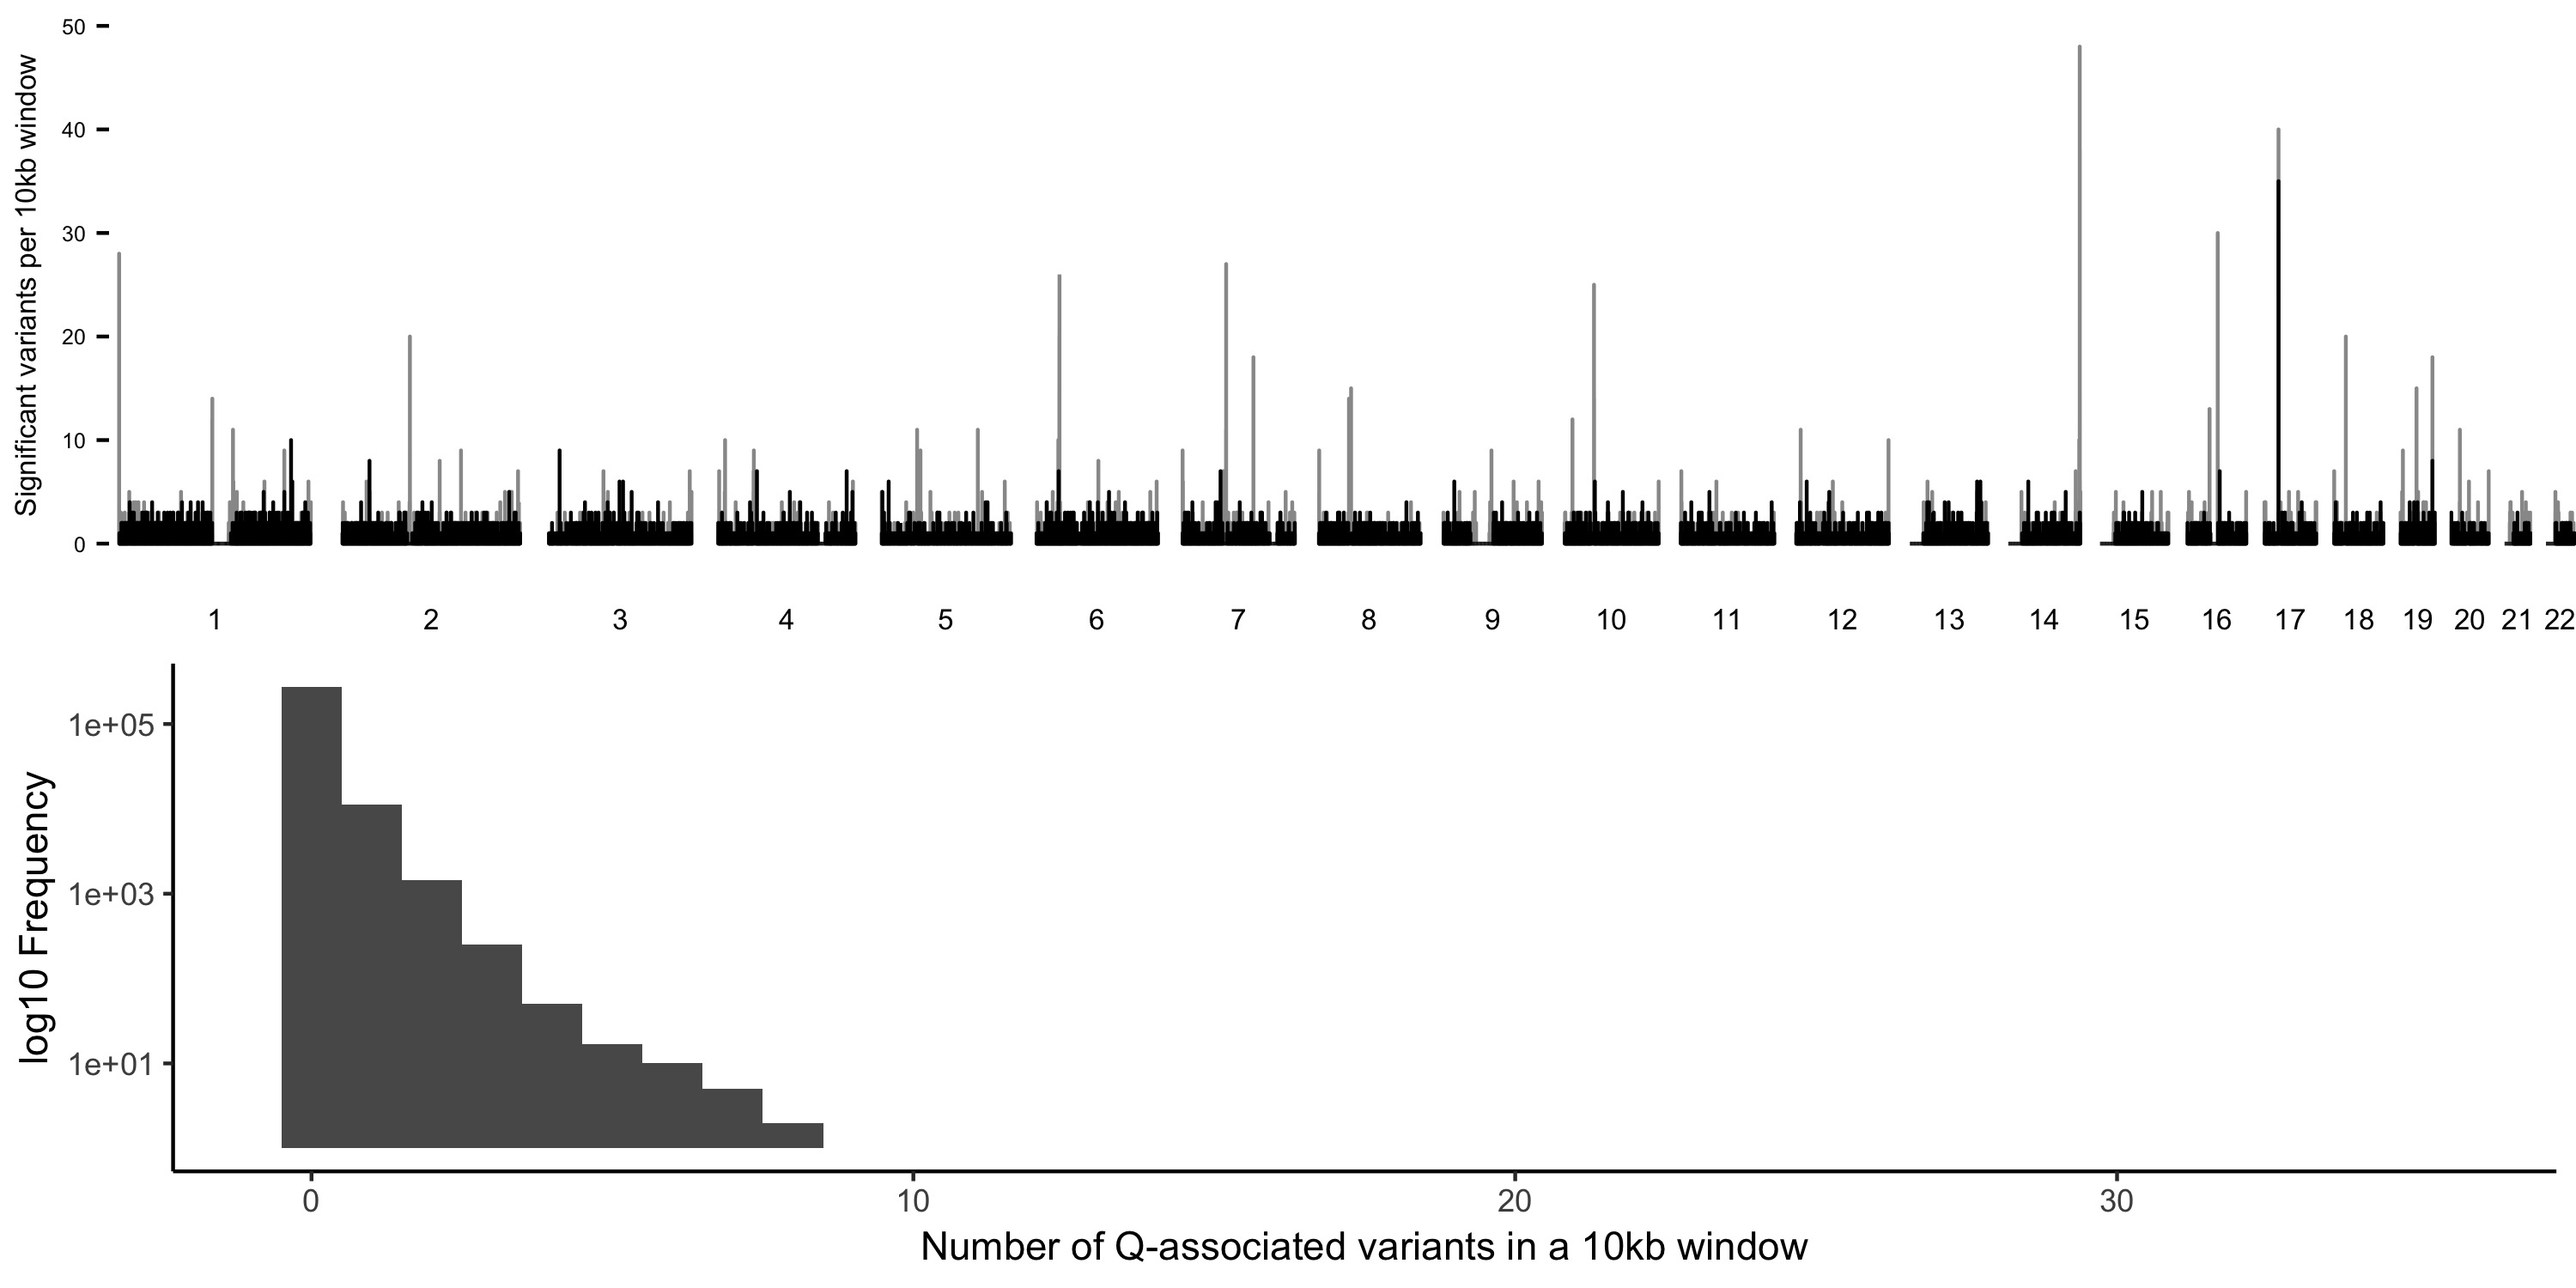
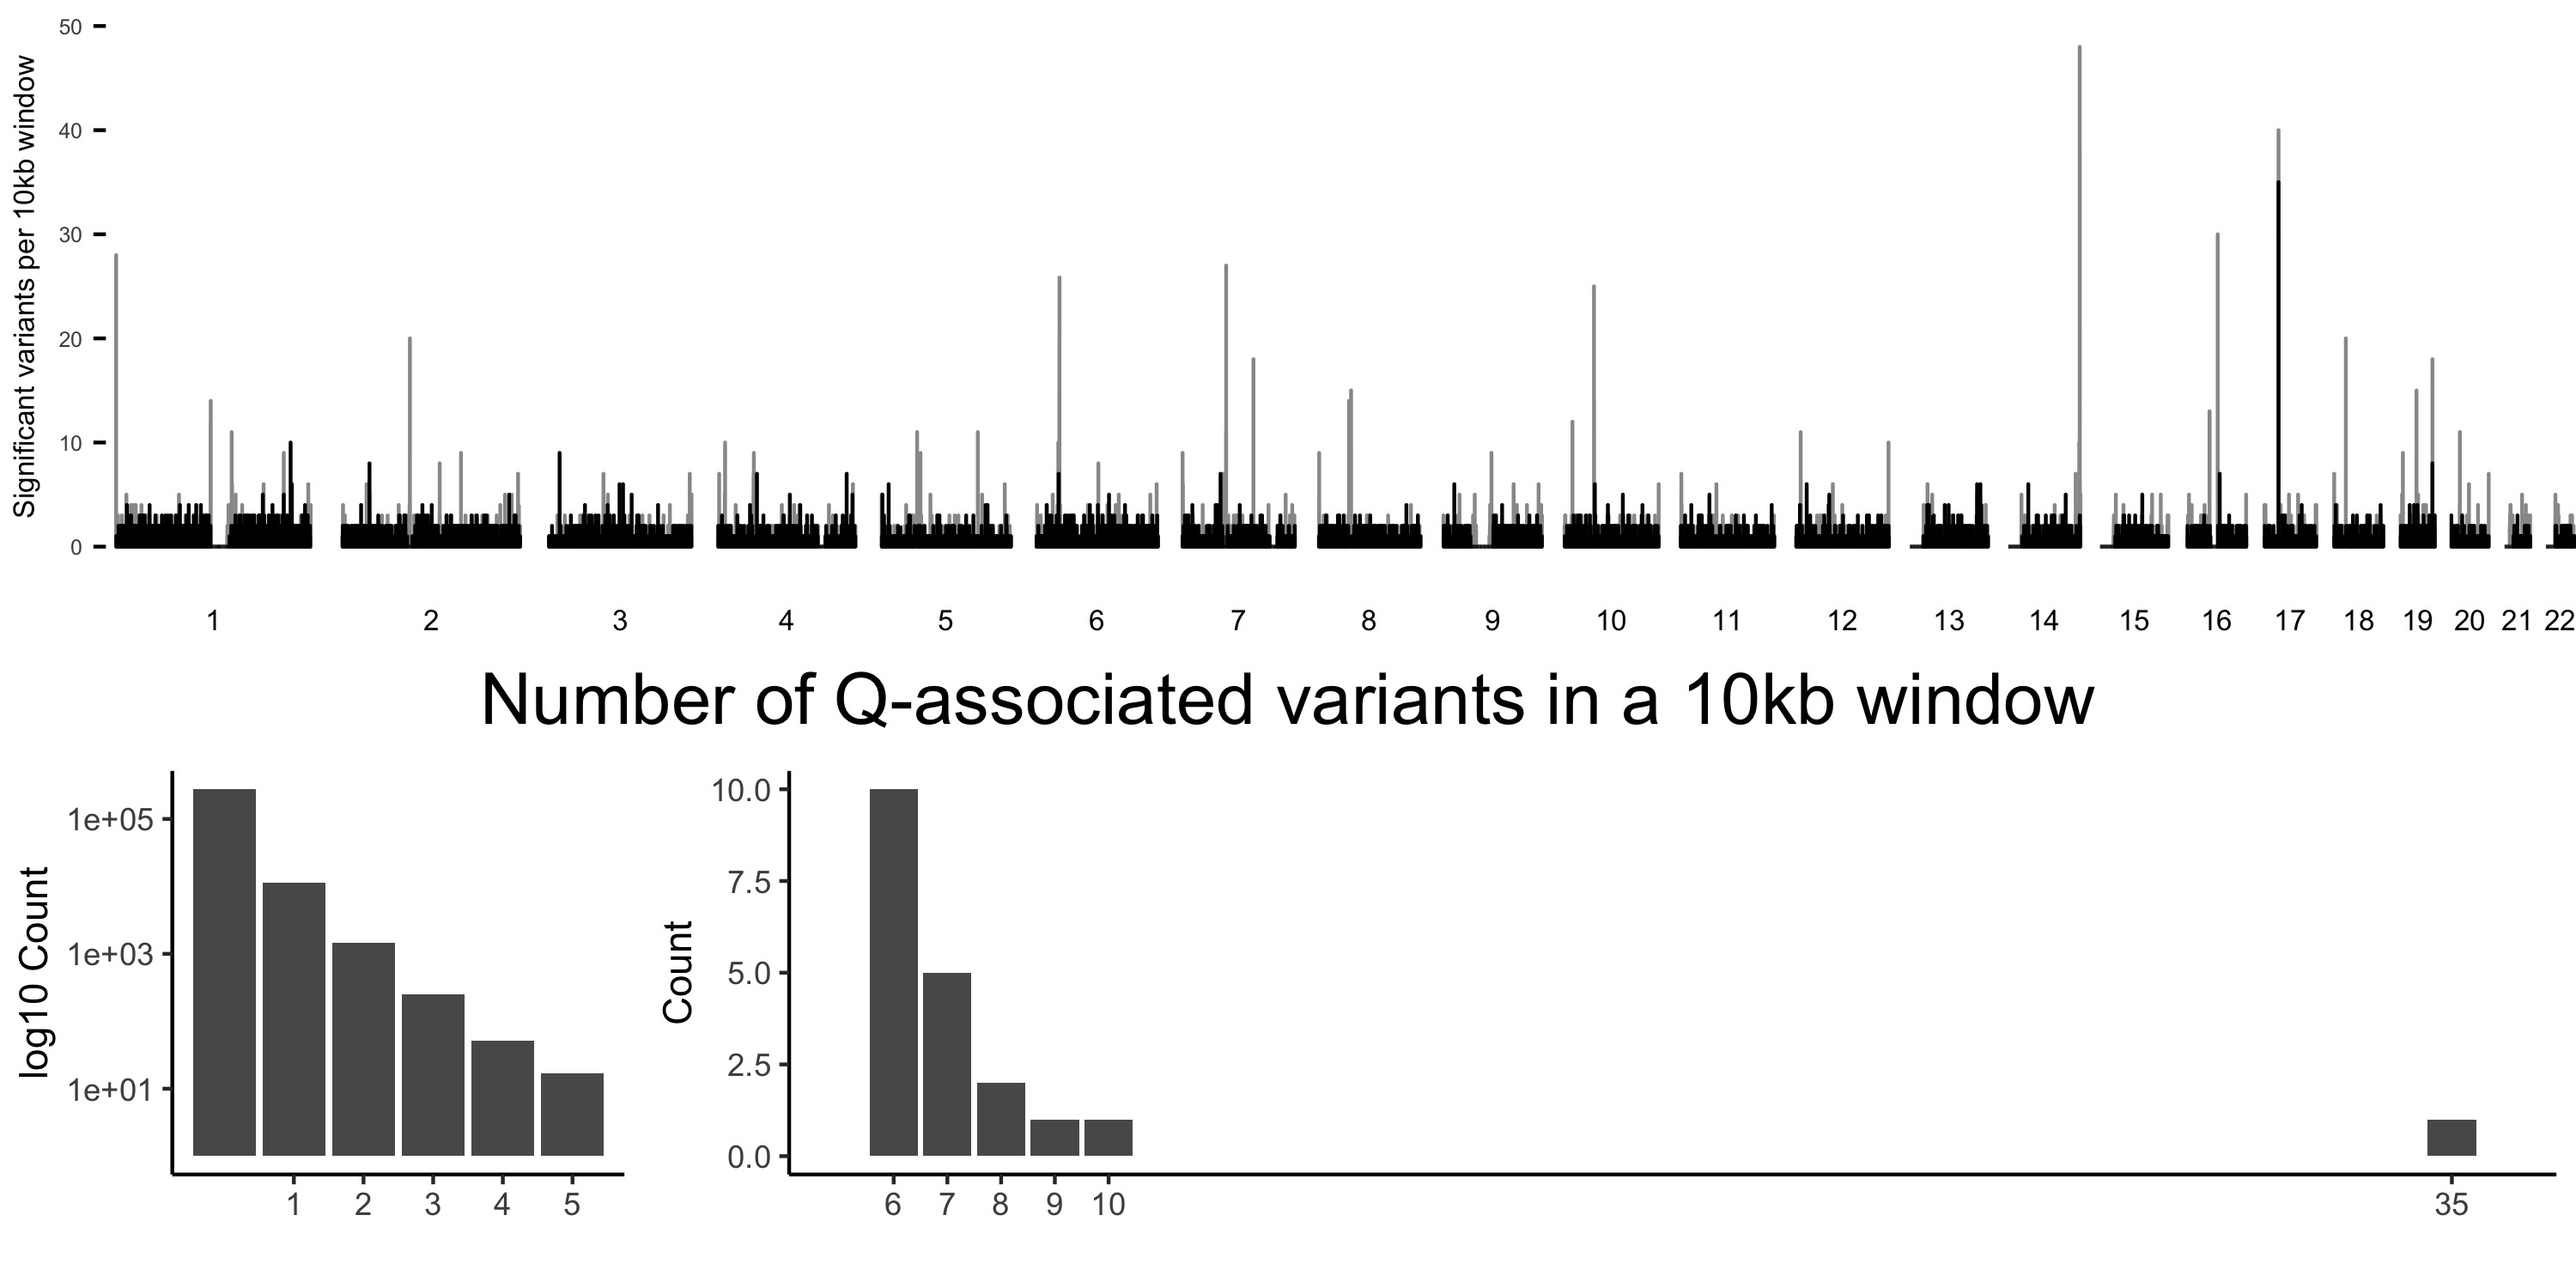
removed some blue text, fixed S8

diff --git a/LatexManuscript/legacy.tex b/LatexManuscript/legacy.tex
@@ -71,7 +71,7 @@ The second phase of the 1kGP implemented multiple technological and analytical i
 
 Yet, because of the extraordinary value of freely available data, early data from the 1kGP is still widely used to impute untyped variants, to estimate allele frequencies, and to answer a wide range of medical and evolutionary questions.
 This raises the question of whether and how such legacy data should be included in contemporary analyses alongside more recent cohorts.
-\todo{Mafessoni et al. recently identified batch effects in the 1kGP by looking for individuals with excess LD among distant variants. \citep{mafessoni2018turning}.}
+Mafessoni et al. recently identified batch effects in the 1kGP by looking for individuals with excess LD among distant variants. \citep{mafessoni2018turning}.
 Here we point out how these and additional unreported batch effects in the early phases of the 1kGP lead to incorrect genetic conclusions through population genetic analyses and spurious GWAS associations as a result of imputation using the 1kGP as a reference.
 
 \subsection{Mutational Signatures}
@@ -187,8 +187,8 @@ An outlying 10kb region in chromosome 17 (bases : 22,020,000 to  22,030,000) has
 Distribution of association statistics in this region is provided in Figure \ref{Top10}.
 By contrast, variants that do not pass the 1kGP strict mask are more unevenly distributed across the genome (Figure \ref{VariantDensity}).
 
-\todo{The mutational 3-mer substitution patterns of this list of variants from the GCAT model is similar to the signature identified in the single population test of the 1kGP JPT in that there is an enrichment in *AC${\rightarrow}$*CC.
-There is also an enrichment of mutations from TAC, TCT, and TGT to the homonucleotide TTT. }\sgcomment{Point to figure}
+The mutational 3-mer substitution patterns of this list of variants from the GCAT model is similar to the signature identified in the single population test of the 1kGP JPT in that there is an enrichment in *AC${\rightarrow}$*CC.
+There is also an enrichment of mutations from TAC, TCT, and TGT to the homonucleotide TTT (Figure \ref{strict_gcat_mutational_enrichment}).
 
 
 A recent publication by Mafessoni et al. also identified a batch effect in the 1kGP using a method that uses linkage disequilibrium rather than quality metrics to identify nearly 20,000 suspicious variants \citep{mafessoni2018turning} (Figure \ref{Mafessoni_MutSpect}).
@@ -210,17 +210,15 @@ These results indicate that there may a multitude of batch effects in the 1kGP t
 \caption{Number and proportion of $Q$-associated variants passing the 1000 Genomes Project strict mask per category. 
 Variants that are flagged by the 1000 Genomes Project nested repeat mask file were analyzed separately for FDR calculation. SNPs and INDELs were also analyzed separately.
 A total of 15,270 are statistically significantly associated to $Q$. 
-\todo{The grey text is the proportion of $Q$-associated variants per category.}
+The grey text is the proportion of $Q$-associated variants per category.
 The number of variants included in the analysis for SNPs, SNPs in repeat regions, INDELs and INDELs in repeat regions are  19,846,786, 6,312,620, 1,770,315 and 586,342 respectively.}
 \label{sigTable}
 \end{table}
 
 \subsection{Cell line or technical artifact}
-\todo{
 To assess whether $Q$-associated variants result from sequencing artifacts, we compare the original 1kGP sequence data to more recent sequencing efforts using the same cell lines.
 Variants that do not reproduce across cohorts are likely the result of sequencing artifacts. 
 Variants that do reproduce across studies could result from (recurrent) cell line mutations or, more likely, from existing variants whose accurate genotyping depends on $Q$.   
-}
 
 In 2017, Lan et al. resequenced 83 Han Chinese individuals from the 1kGP \citep{Lan2017}. 
 %To assess consistency between the two datasets, we consider consistency of genotype calls for $Q$-associated variants that are predicted to be polymorphic in these 83 individuals according to the 1kGP.
@@ -494,7 +492,7 @@ There are 23,111  variants ( 55\% ) that are $Q$-associated but not LD-associate
 \begin{figure}[tbp]
 \centering
 \includegraphics[width=15cm,keepaspectratio]{../Figures/VariantDensity.jpg}
-\caption{The number of $Q$-associated variants per 10kb window across the genome. \sgcomment{Any reason why this is plotted until 35?}
+\caption{The number of $Q$-associated variants per 10kb window across the genome.
 Grey bars indicate regions within and black bars indicate regions outside the 1000 Genomes Project strict mask.
 One region not flagged by the 1000 Genomes Project strict mask in chromosome 17 has more than 10 variants per window.}  
 \label{VariantDensity}
